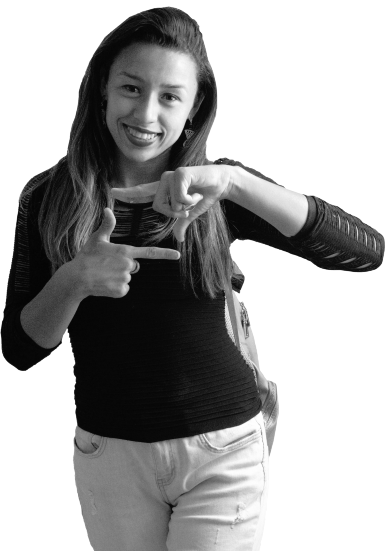
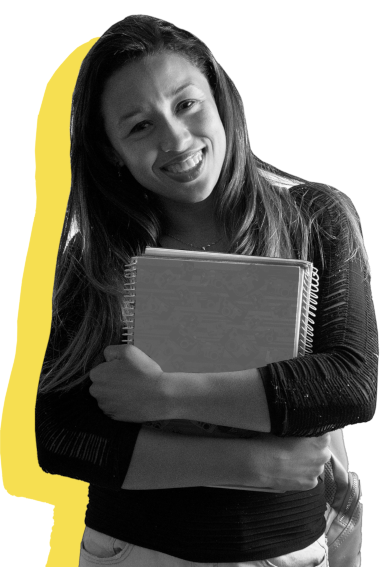
Atualização das imagens de cabeçalho

diff --git a/sass/blocks/_header.scss b/sass/blocks/_header.scss
@@ -7,8 +7,14 @@
     justify-content: center;
     align-items: flex-start;
 
+    &__principal {
+        flex: 0 0 auto;
+        align-self: flex-end;
+        text-align: center;
+    }
+
     &__foto {
-        margin: 80px 50px 0 25px;
+        margin: 20px 25px 0 25px;
         max-width: 25%;
         flex: 0 0 25%;
         align-self: flex-end;
@@ -18,13 +24,18 @@
         }
     }
 
-    &__principal {
-        flex: 1 1 auto;
-        align-self: flex-end;
+    &__ifrs {
+        flex: 0 0 10%;
+        align-self: center;
+
+        @include media-breakpoint-down(lg) {
+            display: none;
+        }
     }
 
     &__link {
         display: inline-block;
+        margin-bottom: 20px;
         padding: 20px 0;
 
         &:hover {
@@ -34,6 +45,10 @@
 
     &__social {
         display: block;
+        @include media-breakpoint-up(lg) {
+            position: absolute;
+            right: 0; bottom: 10px;
+        }
     }
 
     &__search {

diff --git a/header.php b/header.php
@@ -39,12 +39,9 @@
     <header class="lazyload">
         <h1 class="sr-only"><?php bloginfo('name'); ?></h1>
         <section class="container header">
-            <div class="header__foto">
-                <img data-src="<?php echo get_stylesheet_directory_uri(); ?>/img/header-foto.png" width="385" height="551" alt="" class="img-fluid" aria-hidden="true"/>
-            </div>
             <div class="header__principal">
                 <a href="<?php echo esc_url( home_url( '/' ) ); ?>" class="header__link">
-                    <img src="<?php header_image(); ?>" alt="<?php bloginfo('name'); ?> - Ir para P&aacute;gina Inicial" class="img-fluid"/>
+                    <img src="<?php header_image(); ?>" width="400" height="261" alt="<?php bloginfo('name'); ?> - Ir para P&aacute;gina Inicial" class="img-fluid"/>
                 </a>
                 <div class="header__social">
                     <ul class="menu-social">
@@ -58,6 +55,12 @@
                 <div class="header__search">
                     <?php get_search_form(); ?>
                 </div>
+            </div>
+            <div class="header__foto">
+                <img data-src="<?php echo get_stylesheet_directory_uri(); ?>/img/header-foto.png" width="385" height="567" alt="" class="img-fluid" aria-hidden="true"/>
+            </div>
+            <div class="header__ifrs">
+                <img data-src="<?php echo get_stylesheet_directory_uri(); ?>/img/header-ifrs.png" width="174" height="248" alt="" class="img-fluid" aria-hidden="true"/>
             </div>
         </section>
     </header>
